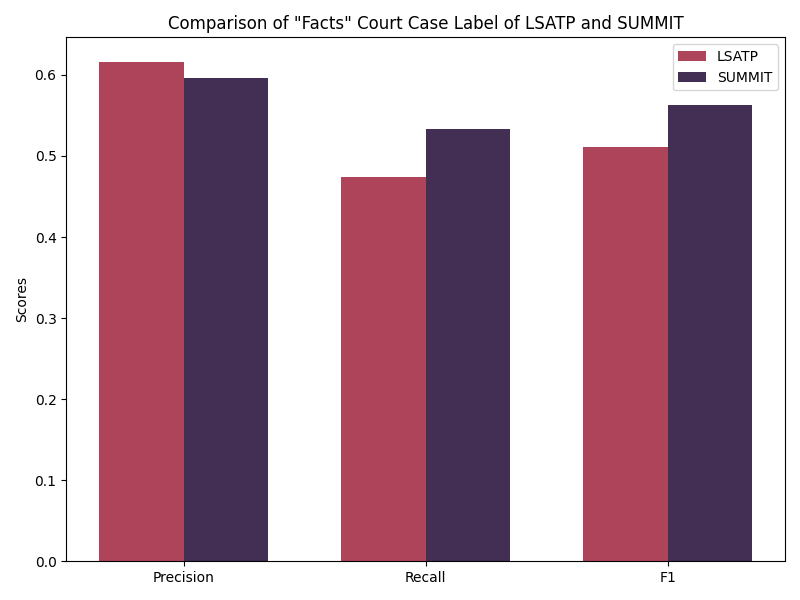
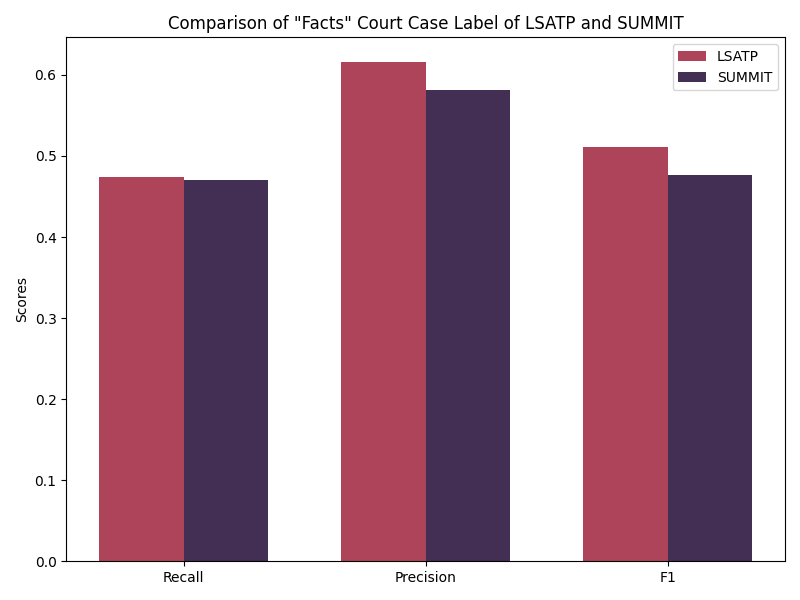
fix: updated the bar dynamically

diff --git a/Evaluation/RougeMetricsSections.py b/Evaluation/RougeMetricsSections.py
@@ -5,6 +5,7 @@ import pandas as pd
 import matplotlib.pyplot as plt
 import seaborn as sns
 import numpy as np
+import pdfplumber
 
 
 
@@ -137,94 +138,113 @@ def generate_pdf_report(df, output_path):
     # Output the PDF to file
     pdf.output(output_path)
 
+def extract_table_from_pdf(pdf_path):
+    """
+    Extracts tabular data from the specified PDF file and returns it as a DataFrame.
+
+    Parameters:
+    pdf_path (str): Path to the PDF file.
+
+    Returns:
+    pd.DataFrame: DataFrame containing the extracted data.
+    """
+    data = []
+    with pdfplumber.open(pdf_path) as pdf:
+        for page in pdf.pages:
+            # Extract tables from the page
+            tables = page.extract_tables()
+            for table in tables:
+                # Convert the table into rows
+                for row in table:
+                    # Append each row to the data
+                    data.append(row)
+    
+    # Create a DataFrame from the extracted data
+    if data:
+        df = pd.DataFrame(data)
+        return df
+    else:
+        print("No table data found in the PDF.")
+        return pd.DataFrame()
+
+
 def generate_bar_graphs(df, file_path):
     """
     Generates a bar graph comparing the LSA and SUMMIT
     """
+    # Plot labels
+    labels = ['Recall', 'Precision', 'F1']
     try:
-        # Data
-        lsatp_facts = {
-            'precision':df['FACTS Precision'].mean(),
-            'recall':df['FACTS Recall'].mean(),
-            'f1':df['FACTS F1'].mean()
-        }
+        summit_df = extract_table_from_pdf('Evaluation\Rouge_Scores_PDF\Section\SUMMIT_Rouge_Sections.pdf')
+        lsatp_df = extract_table_from_pdf('Evaluation\Rouge_Scores_PDF\Section\LSATP_Rouge_Sections.pdf')
 
-        lsatp_issues = {
-            'precision':df['ISSUES Precision'].mean(),
-            'recall':df['ISSUES Recall'].mean(),
-            'f1':df['ISSUES F1'].mean()
-        }
-
-        lsatp_ruling = {
-            'precision':df['RULINGS Precision'].mean(),
-            'recall':df['RULINGS Recall'].mean(),
-            'f1':df['RULINGS F1'].mean()
-        }
-
-        # Plot labels
-        labels = ['Precision', 'Recall', 'F1']
-
+        # Data extraction for LSATP
         lsatp = {
-            'Facts':[lsatp_facts['precision'], lsatp_facts['recall'], lsatp_facts['f1']],
-            'Issues':[lsatp_issues['precision'], lsatp_issues['recall'], lsatp_issues['f1']],
-            'Ruling':[lsatp_ruling['precision'], lsatp_ruling['recall'], lsatp_ruling['f1']]
+            'Facts': [lsatp_df[2].iloc[-1], lsatp_df[3].iloc[-1], lsatp_df[4].iloc[-1]],
+            'Issues': [lsatp_df[5].iloc[-1], lsatp_df[6].iloc[-1], lsatp_df[7].iloc[-1]],
+            'Ruling': [lsatp_df[8].iloc[-1], lsatp_df[9].iloc[-1], lsatp_df[10].iloc[-1]],
         }
+        print(lsatp)
 
+        # Data extraction for SUMMIT
         summit = {
-            'Facts':[0.59650, 0.53340, 0.56319],
-            'Issues':[0.89768, 0.99809, 0.94522],
-            'Ruling':[0.60106, 0.54997, 0.57438]
+            'Facts': [summit_df[2].iloc[-1], summit_df[3].iloc[-1], summit_df[4].iloc[-1]],
+            'Issues': [summit_df[5].iloc[-1], summit_df[6].iloc[-1], summit_df[7].iloc[-1]],
+            'Ruling': [summit_df[8].iloc[-1], summit_df[9].iloc[-1], summit_df[10].iloc[-1]],
         }
-    except Exception as e:
-        print('Dataframe does not have the needed columns or have a columns name mismatch.')
-        print(e)
-
-    try:
+        print(summit)
+        
         # Width and position of bar
         x = np.arange(len(labels))
         width = 0.35
 
-        # Create a comparison plot
-        for court_label in ['Facts','Issues','Ruling']:
-            fig, ax = plt.subplots(figsize=(8, 6))
-            # Bars
-            lsatp_bar = ax.bar(x - width/2, lsatp[court_label], width, label='LSATP', color='#AE445A')
-            summit_bar = ax.bar(x + width/2, summit[court_label], width, label='SUMMIT', color='#432E54')
+        # Convert string values to floats
+        for key in lsatp.keys():
+            lsatp[key] = list(map(float, lsatp[key]))
+            summit[key] = list(map(float, summit[key]))
 
-            # Labels and title
+        # Create a comparison plot
+        for court_label in ['Facts', 'Issues', 'Ruling']:
+            fig, ax = plt.subplots(figsize=(8, 6))
+            lsatp_bar = ax.bar(x - width / 2, lsatp[court_label], width, label='LSATP', color='#AE445A')
+            summit_bar = ax.bar(x + width / 2, summit[court_label], width, label='SUMMIT', color='#432E54')
+
             ax.set_ylabel('Scores')
             ax.set_title(f'Comparison of "{court_label}" Court Case Label of LSATP and SUMMIT')
             ax.set_xticks(x)
             ax.set_xticklabels(labels)
             ax.legend()
 
-            # Save bar image
             plt.tight_layout()
             plt.savefig(f'{file_path}{court_label}_comparison.png')
-
+            
         # Create LSATP court case plot
         fig, ax = plt.subplots(figsize=(8, 6))
-        width = .25
-        # Bars
-        lsatp_facts_bar = ax.bar(x, lsatp['Facts'], width, label='Facts', color='#AE445A')
-        lsatp_Issues_bar = ax.bar(x-width, lsatp['Issues'], width, label='Issues', color='#4B4376')
-        lsatp_Ruling_bar = ax.bar(x+width, lsatp['Ruling'], width, label='Rulings', color='#432E54')
+        width = 0.25
+        ax.bar(x - width, lsatp['Facts'], width, label='Facts', color='#AE445A')
+        ax.bar(x, lsatp['Issues'], width, label='Issues', color='#4B4376')
+        ax.bar(x + width, lsatp['Ruling'], width, label='Rulings', color='#432E54')
 
-        # Labels and title
         ax.set_ylabel('Scores')
         ax.set_title('Court Case Label of LSATP')
         ax.set_xticks(x)
         ax.set_xticklabels(labels)
         ax.legend()
 
-        # Save bar image
         plt.tight_layout()
-        plt.savefig(f'{file_path}Court_case_labels_LSATP.png')
-
-        print(f'Saved image at {file_path}.')
+        plt.savefig(os.path.join(file_path, 'Court_case_labels_LSATP.png'))
+        print(f'Saved images to {file_path}.')
 
     except FileNotFoundError as e:
-        print('Check if images is saved in the right repository.')
+        print("File not found. Check if the specified file paths are correct.")
+        print(e)
+
+    except KeyError as e:
+        print("Dataframe does not have the required columns. Please check the data structure.")
+        print(e)
+
+    except Exception as e:
+        print("An unexpected error occurred.")
         print(e)
 
 
@@ -258,7 +278,7 @@ if __name__ == "__main__":
         df = pd.DataFrame(results)
 
         # Generate the PDF report
-        pdf_path = 'Evaluation/Rouge_Scores_PDF/LSATP_Rouge_Sections.pdf'
+        pdf_path = 'Evaluation/Rouge_Scores_PDF/Section/LSATP_Rouge_Sections.pdf'
         image_path = 'Evaluation/Bar_Graph/'
         generate_pdf_report(df, pdf_path)
         generate_bar_graphs(df, image_path)

diff --git a/Evaluation/RougeMetrics.py b/Evaluation/RougeMetrics.py
@@ -58,6 +58,7 @@ from fpdf import FPDF
 from tabulate import tabulate
 import numpy as np
 import matplotlib.pyplot as plt
+import pdfplumber
 
 
 def read_file(file_path, encoding):
@@ -164,23 +165,63 @@ def generate_pdf_report(df, output_path):
     # Save the PDF
     pdf.output(output_path)
 
+def extract_table_from_pdf(pdf_path, columns):
+    """
+    Extracts tables from a PDF file and converts them into a pandas DataFrame.
+
+    Args:
+        pdf_path (str): The path to the PDF file containing the tables.
+
+    Returns:
+        pd.DataFrame: A DataFrame containing the extracted data with columns:
+                      ["GR Title", "Recall", "Precision", "F1"].
+    """
+    data = []
+
+    with pdfplumber.open(pdf_path) as pdf:
+        for page in pdf.pages:
+            tables = page.extract_tables()
+            for table in tables:
+                for row in table:
+                    # Skip header rows
+                    if row[1] == "GR Title":
+                        continue
+                    data.append(row)
+
+    df = pd.DataFrame(data, columns=columns)
+
+    # Convert numeric columns to float
+    numeric_columns = ["Recall", "Precision", "F1"]
+    for col in numeric_columns:
+        df[col] = pd.to_numeric(df[col], errors='coerce')
+
+    return df
+
 def generate_bar_graph(df, file_path):
     """
     Generate the bar graph of the overall metrics of LSATP
     """
     # Index(['No.', 'GR Title', 'Recall', 'Precision', 'F1'], dtype='object')
     print(df.columns)
+    columns = ["No.", "GR Title", "Recall", "Precision", "F1"] # For overall metrics
+    # Paths to the PDF files
+    summit_scores = "Evaluation/Rouge_Scores_PDF/Overall/Summit_ROUGE_Scores.pdf"
+    lsatp_scores = "Evaluation/Rouge_Scores_PDF/Overall/LSATP_ROUGE_Scores.pdf"
+    # Extract data from the PDFs
+    df1 = extract_table_from_pdf(summit_scores, columns)
+    df2 = extract_table_from_pdf(lsatp_scores, columns)
     try:
         # Data
-        lsatp = [df['Precision'].mean(), df['Recall'].mean(), df['F1'].mean()]
-        summit = [.7078, .6852, .6856]
+        summit = [df1['Recall'].iloc[-1], df1['Precision'].iloc[-1], df1['F1'].iloc[-1]]
+        lsatp = [df2['Recall'].iloc[-1], df2['Precision'].iloc[-1], df2['F1'].iloc[-1]]
+        
     except Exception as e:
         print('Dataframe does not have the needed columns or have a columns name mismatch.')
         print(e)
 
     try:
         # Labels
-        labels = ['Precision', 'Recall', 'F1']
+        labels = ['Recall', 'Precision', 'F1']
 
         # Width and position of bar
         x = np.arange(len(labels))  # x-axis positions
@@ -193,7 +234,7 @@ def generate_bar_graph(df, file_path):
 
         # Labels and title
         ax.set_ylabel('Scores')
-        ax.set_title('Overall LSATP Metrics')
+        ax.set_title('Overall LSATP and Summit Metrics')
         ax.set_xticks(x)
         ax.set_xticklabels(labels)
         ax.legend()
@@ -251,7 +292,7 @@ if __name__ == "__main__":
         print(tabulate([averages], headers="keys", tablefmt="grid", floatfmt=".4f"))
 
         # Generate PDF Report
-        generate_pdf_report(df, 'Evaluation/Rouge_Scores_PDF/LSATP_ROUGE_Scores.pdf')
+        generate_pdf_report(df, 'Evaluation/Rouge_Scores_PDF/Overall/LSATP_ROUGE_Scores.pdf')
         generate_bar_graph(df, 'Evaluation/Bar_Graph/LSATP_ROUGE_Scores_Graph.png')
         print("PDF report generated: LSATP_ROUGE_Scores.pdf")
     else:
